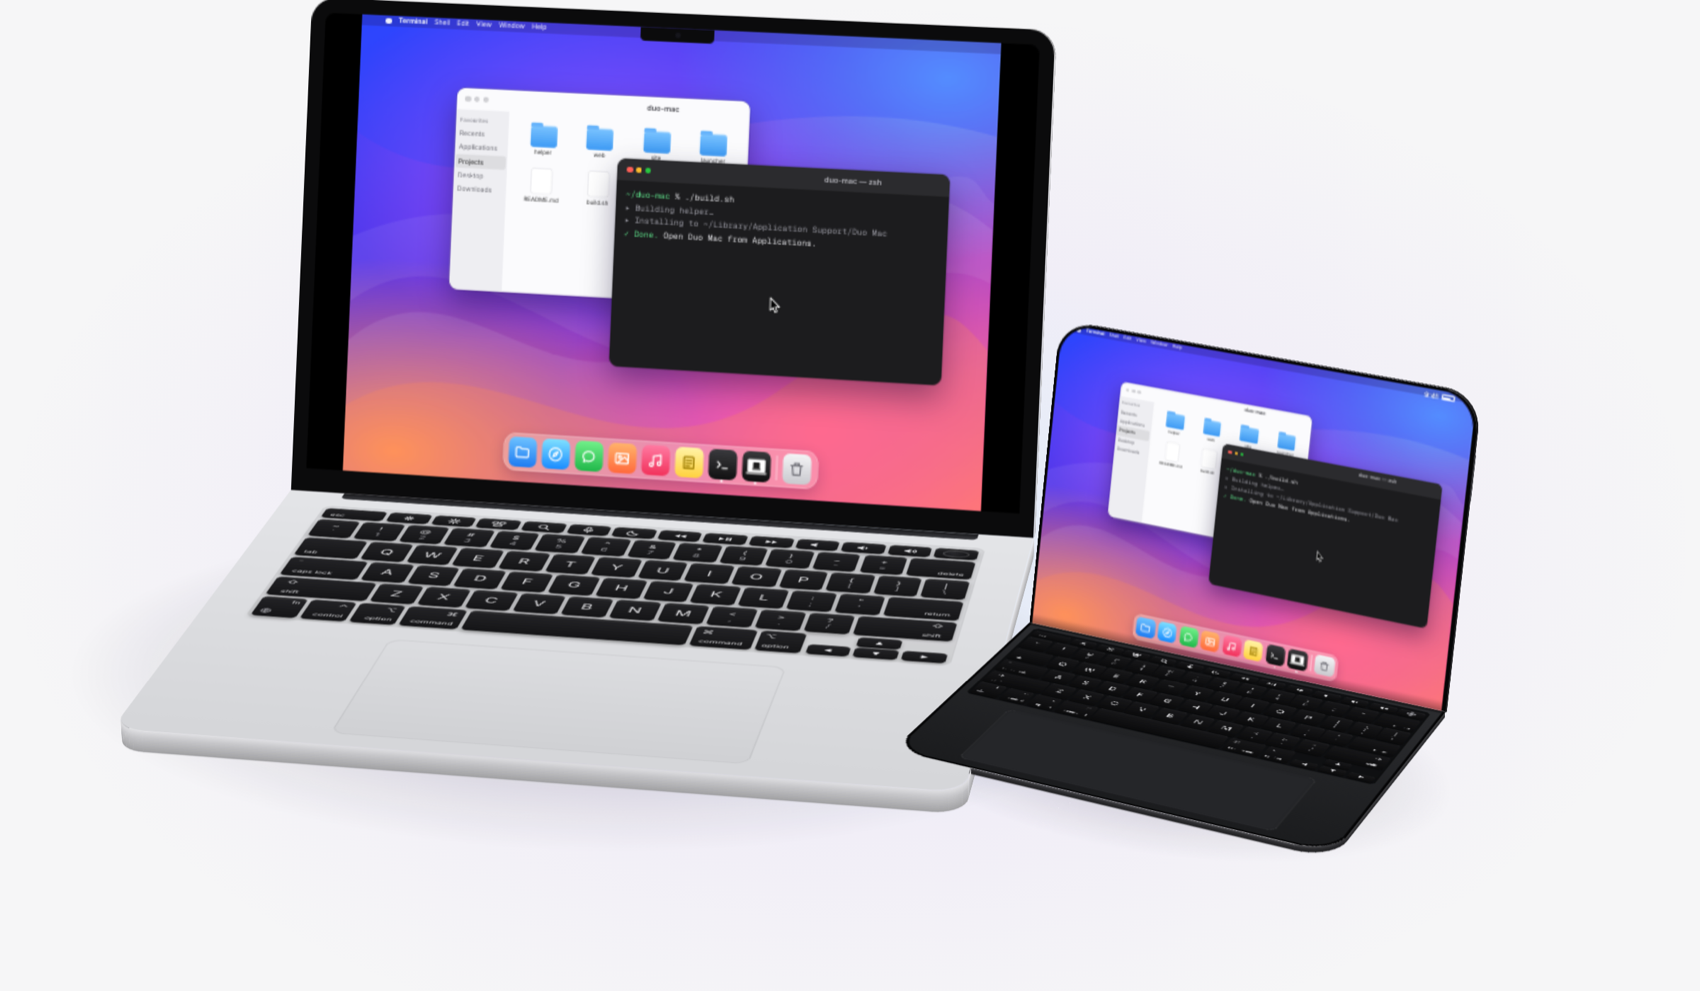
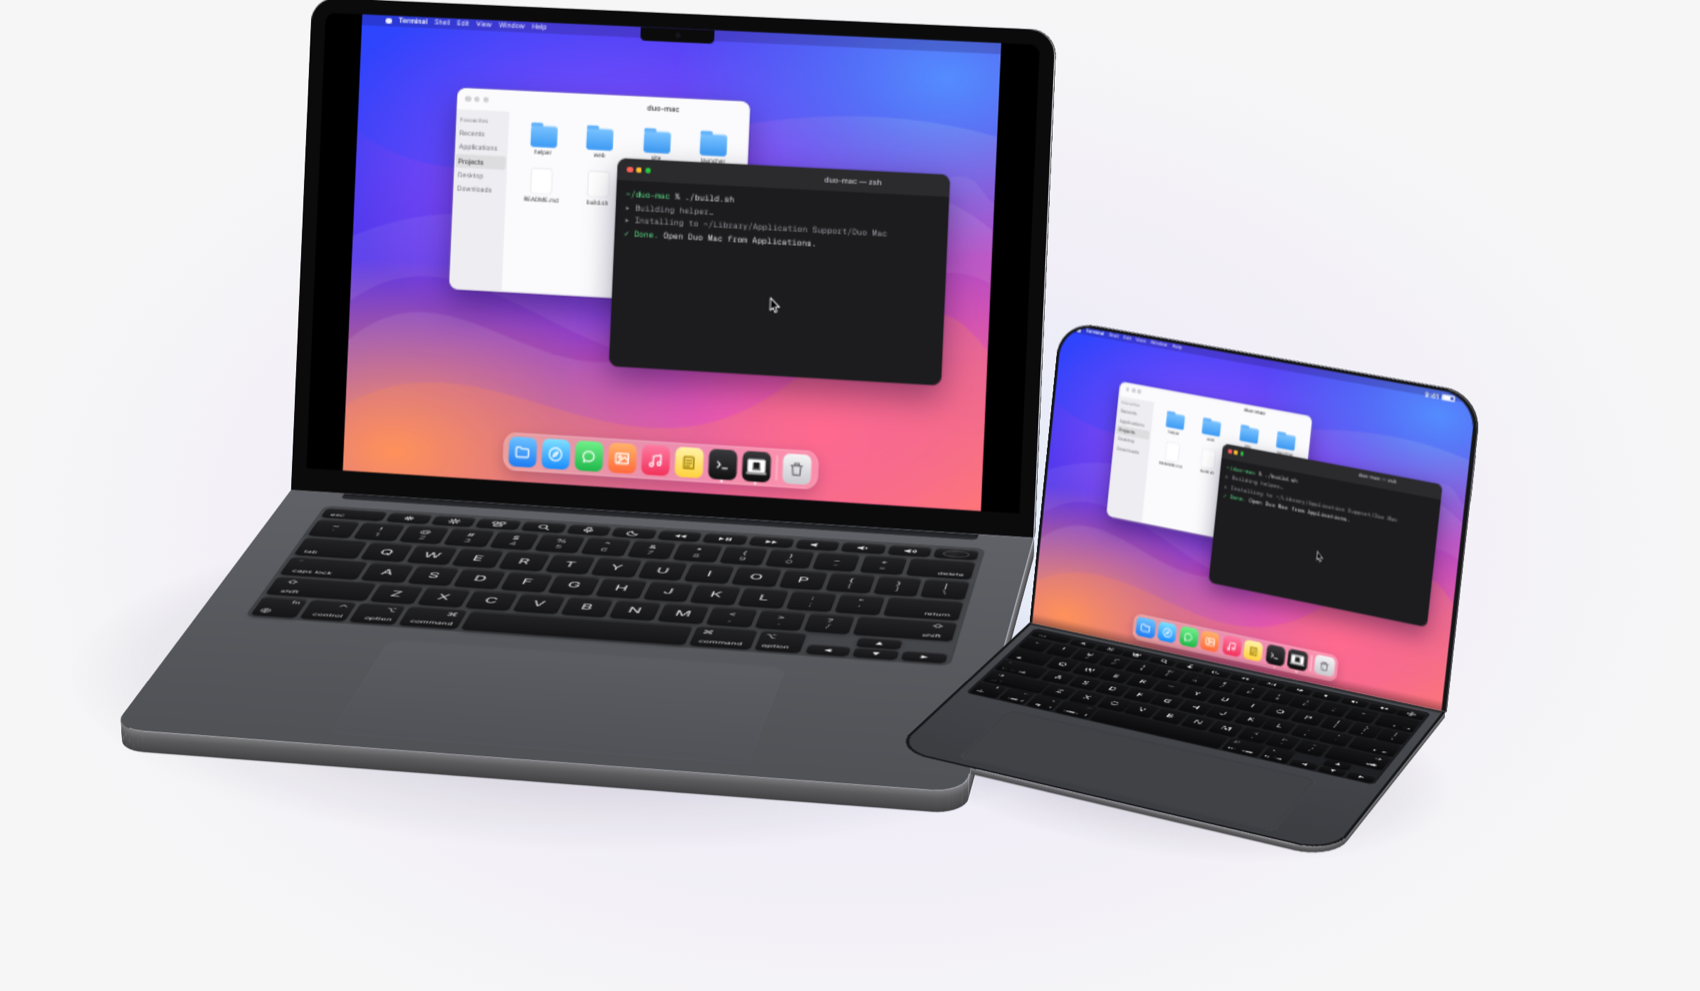
Website: space grey MacBook and graphite iPhone Duo

Changed region(s): [[0.0624, 0.4844, 0.8106, 0.8779], [0.8106, 0.7265, 0.8418, 0.7871], [0.7794, 0.6054, 0.8106, 0.6357]]

diff --git a/site/styles.css b/site/styles.css
@@ -123,8 +123,8 @@ h1 {
   color: #4a4a52;
 }
 .legend > span { display: inline-flex; align-items: center; gap: 7px; }
-.legend .dot { width: 9px; height: 9px; border-radius: 50%; background: #c8c9cd; box-shadow: inset 0 0 0 1px rgba(0, 0, 0, .15); }
-.legend .dot.duo { background: #2a2b2e; }
+.legend .dot { width: 9px; height: 9px; border-radius: 50%; background: #66686d; box-shadow: inset 0 0 0 1px rgba(0, 0, 0, .15); }
+.legend .dot.duo { background: #46484d; }
 .legend .same { position: relative; padding: 0 44px; color: #8a8a93; }
 .legend .same::before, .legend .same::after { content: ''; position: absolute; top: 50%; width: 34px; border-top: 1.5px dashed #b9b9c1; }
 .legend .same::before { left: 0; }
@@ -215,18 +215,18 @@ h1 {
   transform: translate3d(calc(var(--sw) * -.15), 0, calc(var(--sw) * -.08));
 }
 .mb .lid .face { padding: 6em 6em 9em; border-radius: 10em 10em 0 0; background: #0b0b0c; }
-.mb .lid .back { border-radius: 10em 10em 0 0; background: linear-gradient(160deg, #eef0f2, #cfd1d5); }
+.mb .lid .back { border-radius: 10em 10em 0 0; background: linear-gradient(160deg, #6c6e73, #46484c); }
 .mb .bars { position: relative; display: flex; justify-content: center; width: 100%; height: 100%; overflow: hidden; border-radius: 4em 4em 0 0; background: #000; }
 .mb .mirror { flex: none; width: 66.9em; height: 47.55em; font-size: 3.849em; }
 .mb .mirror .mac { border-radius: 0; }
 .mb .mirror .ios-status, .mb .mirror .fold-shade { display: none; }
 .mb .notch { position: absolute; left: 50%; top: 6em; width: 30em; height: 5.4em; margin-left: -15em; border-radius: 0 0 1.8em 1.8em; background: #0b0b0c; z-index: 3; }
 .mb .notch i { position: absolute; left: 50%; top: 1.6em; width: 2.2em; height: 2.2em; margin-left: -1.1em; border-radius: 50%; background: #16161c; }
-.mb .base .face { border-radius: 0 0 11em 11em; background: linear-gradient(180deg, #e4e5e8, #d5d6d9); }
-.mb .hinge-bar { position: absolute; left: 22em; right: 22em; top: 0; height: 5.5em; border-radius: 0 0 2.2em 2.2em; background: linear-gradient(#18181b, #3c3d41); }
-.mb .keyboard { --u: 16.5em; left: 17.7em; right: 17.7em; top: 13em; background: rgba(0, 0, 0, .06); box-shadow: inset 0 .25em .6em rgba(0, 0, 0, .12); }
+.mb .base .face { border-radius: 0 0 11em 11em; background: linear-gradient(180deg, #606267, #505256); }
+.mb .hinge-bar { position: absolute; left: 22em; right: 22em; top: 0; height: 5.5em; border-radius: 0 0 2.2em 2.2em; background: linear-gradient(#1b1c1f, #303135); }
+.mb .keyboard { --u: 16.5em; left: 17.7em; right: 17.7em; top: 13em; background: rgba(0, 0, 0, .22); box-shadow: inset 0 .25em .6em rgba(0, 0, 0, .25); }
 .mb .key { background: linear-gradient(180deg, #232326, #151517); box-shadow: inset 0 .25em 0 rgba(255, 255, 255, .06), 0 .3em .4em rgba(0, 0, 0, .25); }
-.mb .trackpad { left: 76em; right: 76em; top: 127em; bottom: 9em; border-radius: 5.5em; background: linear-gradient(#dcdde0, #d0d1d4); box-shadow: inset 0 0 0 .35em rgba(0, 0, 0, .05), inset 0 .3em .9em rgba(0, 0, 0, .09); }
+.mb .trackpad { left: 76em; right: 76em; top: 127em; bottom: 9em; border-radius: 5.5em; background: linear-gradient(#5b5d62, #515358); box-shadow: inset 0 0 0 .35em rgba(255, 255, 255, .06), inset 0 .3em .9em rgba(0, 0, 0, .18); }
 .key .tid { width: 62%; height: 62%; border-radius: 50%; background: radial-gradient(circle at 40% 35%, #2a2a2e, #101012); box-shadow: inset 0 0 0 .1em rgba(255, 255, 255, .22); }
 
 /* iPhone Duo (space black titanium), a bit larger than life so it reads next to the Mac */
@@ -235,13 +235,15 @@ h1 {
   font-size: calc(var(--sw) * .00178 * 1.82 * 1.32);
   transform: translate3d(calc(var(--sw) * .265), 0, calc(var(--sw) * .1)) rotateY(-18deg);
 }
-.duo .lid .face { padding: .55em .55em 0; border-radius: 5.6em 5.6em 0 0; background: #050506; }
-.duo .lid .back { border-radius: 5.6em 5.6em 0 0; background: radial-gradient(120% 90% at 30% 20%, #4a4b50, #26272a 60%, #1b1c1e); }
-.duo .base .face { border: .55em solid #050506; border-top: 0; border-radius: 0 0 5.6em 5.6em; background: linear-gradient(180deg, #2b2c2f, #1b1c1e); }
+.duo .lid .face { padding: .5em .5em 0; border-radius: 5.6em 5.6em 0 0; background: #151618; }
+.duo .lid .back { border-radius: 5.6em 5.6em 0 0; background: radial-gradient(120% 90% at 30% 20%, #6e7075, #4a4c50 60%, #3c3e42); }
+.duo .base .face { border: .5em solid #151618; border-top: 0; border-radius: 0 0 5.6em 5.6em; background: linear-gradient(180deg, #4a4c51, #3b3d41); }
+.duo .keyboard, .fp-deck .keyboard { background: #1f2023; }
+.duo .trackpad, .fp-deck .trackpad { background: #404246; box-shadow: inset 0 0 0 .1em rgba(255, 255, 255, .1), inset 0 .1em .6em rgba(0, 0, 0, .2); }
 .duo .hinge-shade { position: absolute; left: 0; right: 0; top: 0; height: .9em; background: linear-gradient(rgba(0, 0, 0, .7), transparent); z-index: 1; }
 .duo .keyboard { --u: 3.95em; left: 1.2em; right: 1.2em; top: 1.45em; }
 .duo .trackpad { left: 9em; right: 9em; top: 28.4em; bottom: 1.6em; }
-.side-btn { position: absolute; top: 0; left: 0; height: .5em; transform-origin: 0 0; border-radius: .25em; background: linear-gradient(#6b6c72, #3a3b40); }
+.side-btn { position: absolute; top: 0; left: 0; height: .5em; transform-origin: 0 0; border-radius: .25em; background: linear-gradient(#8e9095, #56585c); }
 
 /* A Mac desktop: on both screens, the same */
 .mac {
@@ -465,7 +467,7 @@ h2 { margin: 0; font-size: clamp(28px, 4vw, 44px); line-height: 1.1; letter-spac
 .tile h3 { margin: 16px 8px 2px; font-size: 17px; letter-spacing: -.01em; }
 .tile p { margin: 0 8px; font-size: 14.5px; color: var(--muted); }
 .viz { position: relative; display: grid; place-items: center; height: 190px; overflow: hidden; border-radius: 14px; background: #f3f3f6; }
-.viz.dark { background: linear-gradient(180deg, #2b2c2f, #1b1c1e); }
+.viz.dark { background: linear-gradient(180deg, #4a4c51, #3b3d41); }
 #security { scroll-margin-top: 90px; }
 
 .mini-kb { --u: 34px; position: relative; inset: auto; width: max-content; }
@@ -474,7 +476,7 @@ h2 { margin: 0; font-size: clamp(28px, 4vw, 44px); line-height: 1.1; letter-spac
 @media (max-width: 1000px) { .mini-kb { --u: 28px; } }
 @media (max-width: 600px) { .mini-kb { --u: 25px; } }
 
-.pad-viz { position: relative; width: 74%; height: 70%; overflow: hidden; border-radius: 16px; background: #252629; box-shadow: inset 0 0 0 1px rgba(255, 255, 255, .09); }
+.pad-viz { position: relative; width: 74%; height: 70%; overflow: hidden; border-radius: 16px; background: #404246; box-shadow: inset 0 0 0 1px rgba(255, 255, 255, .1); }
 .pad-viz .f { position: absolute; top: 62%; width: 34px; height: 34px; margin: -17px 0 0 -17px; border-radius: 50%; background: radial-gradient(circle, rgba(255, 255, 255, .55), rgba(255, 255, 255, .12) 60%, transparent 72%); animation: scroll2 2.6s ease-in-out infinite; }
 .pad-viz .f1 { left: 42%; }
 .pad-viz .f2 { left: 58%; }
@@ -520,12 +522,12 @@ h2 { margin: 0; font-size: clamp(28px, 4vw, 44px); line-height: 1.1; letter-spac
   aspect-ratio: 9 / 19.5;
   padding: 9px;
   border-radius: 44px;
-  background: #0a0a0b;
-  box-shadow: 0 0 0 2px #5b5c61, 0 0 0 3.5px #2a2b2e, 0 30px 60px -20px rgba(0, 0, 0, .45);
+  background: #151618;
+  box-shadow: 0 0 0 2px #7a7c81, 0 0 0 3.5px #45474b, 0 30px 60px -20px rgba(0, 0, 0, .45);
 }
 .fp-screen { position: relative; display: flex; flex-direction: column; width: 100%; height: 100%; overflow: hidden; border-radius: 36px; background: #000; font-size: calc((var(--pw) - 18px) / 66.9); }
 .fp-screen .mac { flex: 0 0 50%; border-radius: 0; }
-.fp-deck { position: relative; flex: 1; background: linear-gradient(180deg, #2b2c2f, #1b1c1e); }
+.fp-deck { position: relative; flex: 1; background: linear-gradient(180deg, #4a4c51, #3b3d41); }
 .fp-deck .keyboard { --u: 3.95em; top: 1.6em; left: 1.4em; right: 1.4em; }
 .fp-deck .trackpad { top: 30em; left: 8em; right: 8em; bottom: 5em; }
 .mac.mini .menubar { height: 5em; padding-top: 3.2em; padding-left: 2em; }

diff --git a/site/app.js b/site/app.js
@@ -108,7 +108,7 @@
     return s + (done ? '\n' + PROMPT + '<i class="caret"></i>' : '');
   }
 
-  // ───── Edges: titanium for the Duo, aluminium for the MacBook, following the rounded outline ─────
+  // ───── Edges: graphite titanium for the Duo, space grey aluminium for the MacBook, following the rounded outline ─────
   function edges(half, { W, H, R, t, side, metal }) {
     const N = 9, pts = [];
     const arc = (cx, cy, a0, a1) => { for (let i = 0; i <= N; i++) { const a = a0 + ((a1 - a0) * i) / N; pts.push([cx + R * Math.cos(a), cy + R * Math.sin(a)]); } };
@@ -122,9 +122,9 @@
       if (len < 0.01) continue;
       const n = side === 'lid' ? [dy / len, -dx / len] : [-dy / len, dx / len]; // outward
       const lit = Math.max(0, n[0] * light[0] + n[1] * light[1]);
-      const [top, mid, bot] = metal === 'al'
-        ? [Math.round(222 + 30 * lit), Math.round(196 + 34 * lit), Math.round(160 + 36 * lit)]
-        : [Math.round(78 + 70 * lit), Math.round(46 + 40 * lit), Math.round(30 + 22 * lit)];
+      const [top, mid, bot] = metal === 'al' // space grey aluminium : graphite titanium
+        ? [Math.round(124 + 56 * lit), Math.round(92 + 42 * lit), Math.round(66 + 28 * lit)]
+        : [Math.round(138 + 62 * lit), Math.round(96 + 42 * lit), Math.round(70 + 26 * lit)];
       html += `<i class="edge" style="width:${(len + 0.08).toFixed(3)}em;height:${t}em;` +
         `transform:translate(${ax.toFixed(3)}em,${ay.toFixed(3)}em) rotateZ(${Math.atan2(dy, dx).toFixed(4)}rad) rotateX(-90deg);` +
         `background:linear-gradient(rgb(${top},${top},${top + 3}),rgb(${mid},${mid},${mid + 3}) 35%,rgb(${bot},${bot},${bot + 2}))"></i>`;
